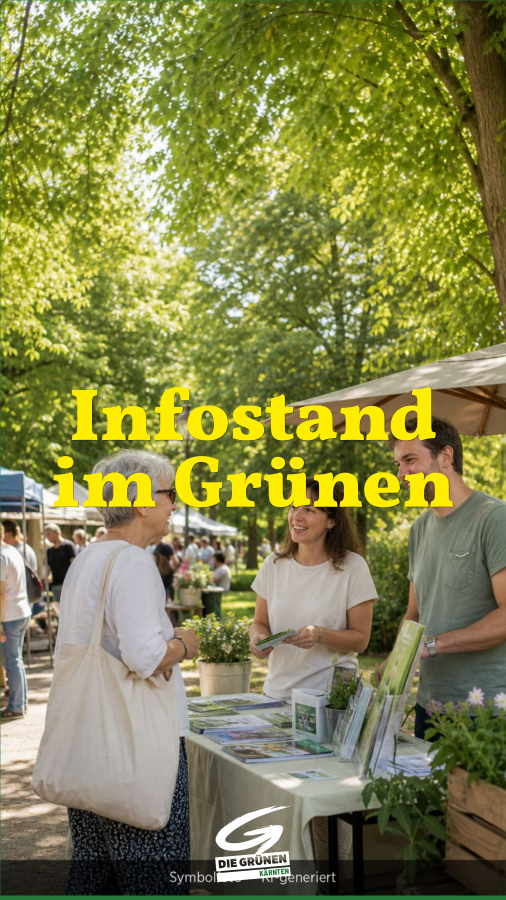
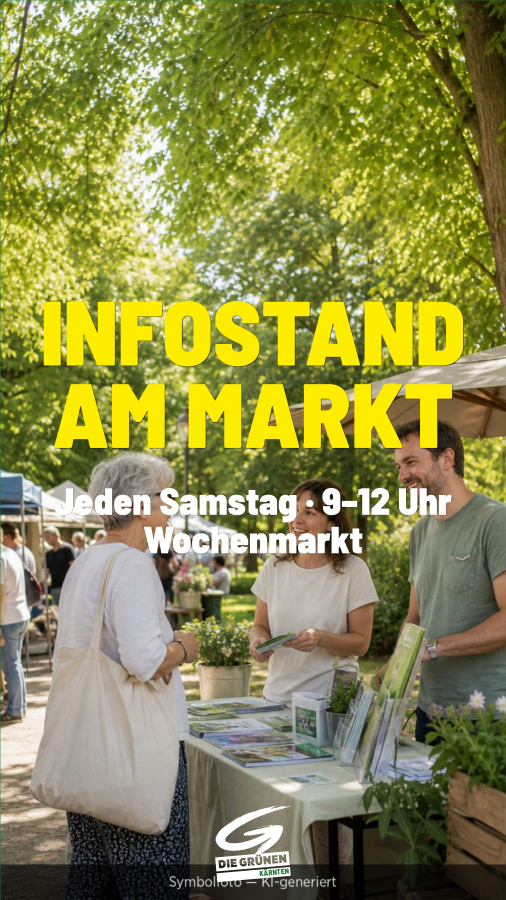
feat(examples): complete realistic sharepic content
- Compose each example as a finished sharepic: headline plus the supporting
  copy a real post needs — date, time, place, names/roles, call-to-action
- Radbörse: date/time/place line and a Störer carrying the date (13. Juni) as
  a text badge, moved to the top-right corner clear of the headline
- Open-Air-Kino: screening details and a QR labelled Programm in a corner
- Klima-Stammtisch: Vollkorn accent word plus recurring meeting details
- Klima-Demo: demo date and place clear of the headline, QR and dated Störer
  in the corners
- Zitat: quote with a name/role attribution (Mag.ª Lena Berger, Spitzenkandidatin)
- Infostand: weekly market details
- Generator now places multiple text blocks via the real controls, sizes them
  with the scale slider and positions them as a user drag would; deselects
  between blocks so each is a fresh element
- Refresh gallery alt text and captions to match the richer content

diff --git a/index.html b/index.html
@@ -187,7 +187,7 @@
           <figure class="m-0">
             <img
               src="resources/images/examples/radboerse-feed.png"
-              alt="Beispiel-Sharepic Feed-Post Radbörse am Hauptplatz mit Logo, Foto-Hintergrund, Schlagzeile in der Standardschrift und rundem Störer"
+              alt="Beispiel-Sharepic Feed-Post Radbörse am Hauptplatz mit Logo, Foto-Hintergrund, Schlagzeile, Datum-Zeit-Ort-Zeile und rundem Störer mit Datum oben rechts"
               loading="lazy"
               class="w-full h-40 sm:h-48 object-contain rounded-md border border-gray-200 bg-gray-50"
             />
@@ -198,7 +198,7 @@
           <figure class="m-0">
             <img
               src="resources/images/examples/openair-kino-story.png"
-              alt="Beispiel-Sharepic Story Open-Air-Kino mit Logo, Foto-Hintergrund, Schlagzeile in der Standardschrift und QR-Code"
+              alt="Beispiel-Sharepic Story Open-Air-Kino mit Logo, Foto-Hintergrund, Schlagzeile, Termin-Details und QR-Code mit Beschriftung Programm unten rechts"
               loading="lazy"
               class="w-full h-40 sm:h-48 object-contain rounded-md border border-gray-200 bg-gray-50"
             />
@@ -209,7 +209,7 @@
           <figure class="m-0">
             <img
               src="resources/images/examples/klima-stammtisch-feed.png"
-              alt="Beispiel-Sharepic Feed-Post Klima-Stammtisch mit Logo, Foto-Hintergrund und Schlagzeile mit betonter Serifenschrift als Akzent"
+              alt="Beispiel-Sharepic Feed-Post Klima-Stammtisch mit Logo, Foto-Hintergrund, Akzentwort in Serifenschrift, Schlagzeile und Termin-Details"
               loading="lazy"
               class="w-full h-40 sm:h-48 object-contain rounded-md border border-gray-200 bg-gray-50"
             />
@@ -220,7 +220,7 @@
           <figure class="m-0">
             <img
               src="resources/images/examples/klima-demo-event.png"
-              alt="Beispiel-Sharepic Event-Header Klima-Demo mit Logo, Foto-Hintergrund, Schlagzeile in der Standardschrift, QR-Code und rundem Störer"
+              alt="Beispiel-Sharepic Event-Header Klima-Demo mit Logo, Foto-Hintergrund, Schlagzeile, Demo-Datum und -Ort, QR-Code und rundem Störer mit Datum"
               loading="lazy"
               class="w-full h-40 sm:h-48 object-contain rounded-md border border-gray-200 bg-gray-50"
             />
@@ -231,7 +231,7 @@
           <figure class="m-0">
             <img
               src="resources/images/examples/zitat-kandidatin-feed.png"
-              alt="Beispiel-Sharepic Feed-Post Zitat einer Kandidatin mit Logo, Porträt-Hintergrund und Zitat in der betonten Serifenschrift"
+              alt="Beispiel-Sharepic Feed-Post Zitat einer Kandidatin mit Logo, Porträt-Hintergrund, Zitat in Serifenschrift und Namens-Attribution Mag.ª Lena Berger, Spitzenkandidatin"
               loading="lazy"
               class="w-full h-40 sm:h-48 object-contain rounded-md border border-gray-200 bg-gray-50"
             />
@@ -242,12 +242,12 @@
           <figure class="m-0">
             <img
               src="resources/images/examples/infostand-natur-story.png"
-              alt="Beispiel-Sharepic Story Infostand im Grünen mit Logo, Foto-Hintergrund und Schlagzeile mit betonter Serifenschrift als Akzent"
+              alt="Beispiel-Sharepic Story Infostand am Markt mit Logo, Foto-Hintergrund, Schlagzeile und wöchentlichen Termin-Details"
               loading="lazy"
               class="w-full h-40 sm:h-48 object-contain rounded-md border border-gray-200 bg-gray-50"
             />
             <figcaption class="mt-1 text-xs text-gray-600">
-              Story · Infostand · Serifenschrift
+              Story · Infostand · Standardschrift
             </figcaption>
           </figure>
         </div>

diff --git a/schriften.html b/schriften.html
@@ -204,33 +204,33 @@
       <div class="schriften-gallery">
         <figure>
           <img src="resources/images/examples/radboerse-feed.png"
-               alt="Feed-Post Radbörse am Hauptplatz mit Logo, Foto-Hintergrund, Schlagzeile in der Standardschrift und rundem Störer" loading="lazy">
+               alt="Feed-Post Radbörse am Hauptplatz mit Logo, Foto-Hintergrund, Schlagzeile, Datum-Zeit-Ort-Zeile und rundem Störer mit Datum oben rechts" loading="lazy">
           <figcaption>Feed-Post · Radbörse · Standardschrift</figcaption>
         </figure>
         <figure>
           <img src="resources/images/examples/openair-kino-story.png"
-               alt="Story Open-Air-Kino mit Logo, Foto-Hintergrund, Schlagzeile in der Standardschrift und QR-Code" loading="lazy">
+               alt="Story Open-Air-Kino mit Logo, Foto-Hintergrund, Schlagzeile, Termin-Details und QR-Code mit Beschriftung Programm unten rechts" loading="lazy">
           <figcaption>Story · Open-Air-Kino · Standardschrift</figcaption>
         </figure>
         <figure>
           <img src="resources/images/examples/klima-stammtisch-feed.png"
-               alt="Feed-Post Klima-Stammtisch mit Logo, Foto-Hintergrund und Schlagzeile mit betonter Serifenschrift als Akzent" loading="lazy">
+               alt="Feed-Post Klima-Stammtisch mit Logo, Foto-Hintergrund, Akzentwort in Serifenschrift, Schlagzeile und Termin-Details" loading="lazy">
           <figcaption>Feed-Post · Klima-Stammtisch · Serifenschrift</figcaption>
         </figure>
         <figure>
           <img src="resources/images/examples/klima-demo-event.png"
-               alt="Event-Header Klima-Demo mit Logo, Foto-Hintergrund, Schlagzeile in der Standardschrift, QR-Code und rundem Störer" loading="lazy">
+               alt="Event-Header Klima-Demo mit Logo, Foto-Hintergrund, Schlagzeile, Demo-Datum und -Ort, QR-Code und rundem Störer mit Datum" loading="lazy">
           <figcaption>Event · Klima-Demo · Standardschrift</figcaption>
         </figure>
         <figure>
           <img src="resources/images/examples/zitat-kandidatin-feed.png"
-               alt="Feed-Post Zitat einer Kandidatin mit Logo, Porträt-Hintergrund und Zitat in der betonten Serifenschrift" loading="lazy">
+               alt="Feed-Post Zitat einer Kandidatin mit Logo, Porträt-Hintergrund, Zitat in Serifenschrift und Namens-Attribution Mag.ª Lena Berger, Spitzenkandidatin" loading="lazy">
           <figcaption>Feed-Post · Zitat · Serifenschrift</figcaption>
         </figure>
         <figure>
           <img src="resources/images/examples/infostand-natur-story.png"
-               alt="Story Infostand im Grünen mit Logo, Foto-Hintergrund und Schlagzeile mit betonter Serifenschrift als Akzent" loading="lazy">
-          <figcaption>Story · Infostand · Serifenschrift</figcaption>
+               alt="Story Infostand am Markt mit Logo, Foto-Hintergrund, Schlagzeile und wöchentlichen Termin-Details" loading="lazy">
+          <figcaption>Story · Infostand · Standardschrift</figcaption>
         </figure>
       </div>
       <p class="gat-fliesstext schriften-gallery-note">
